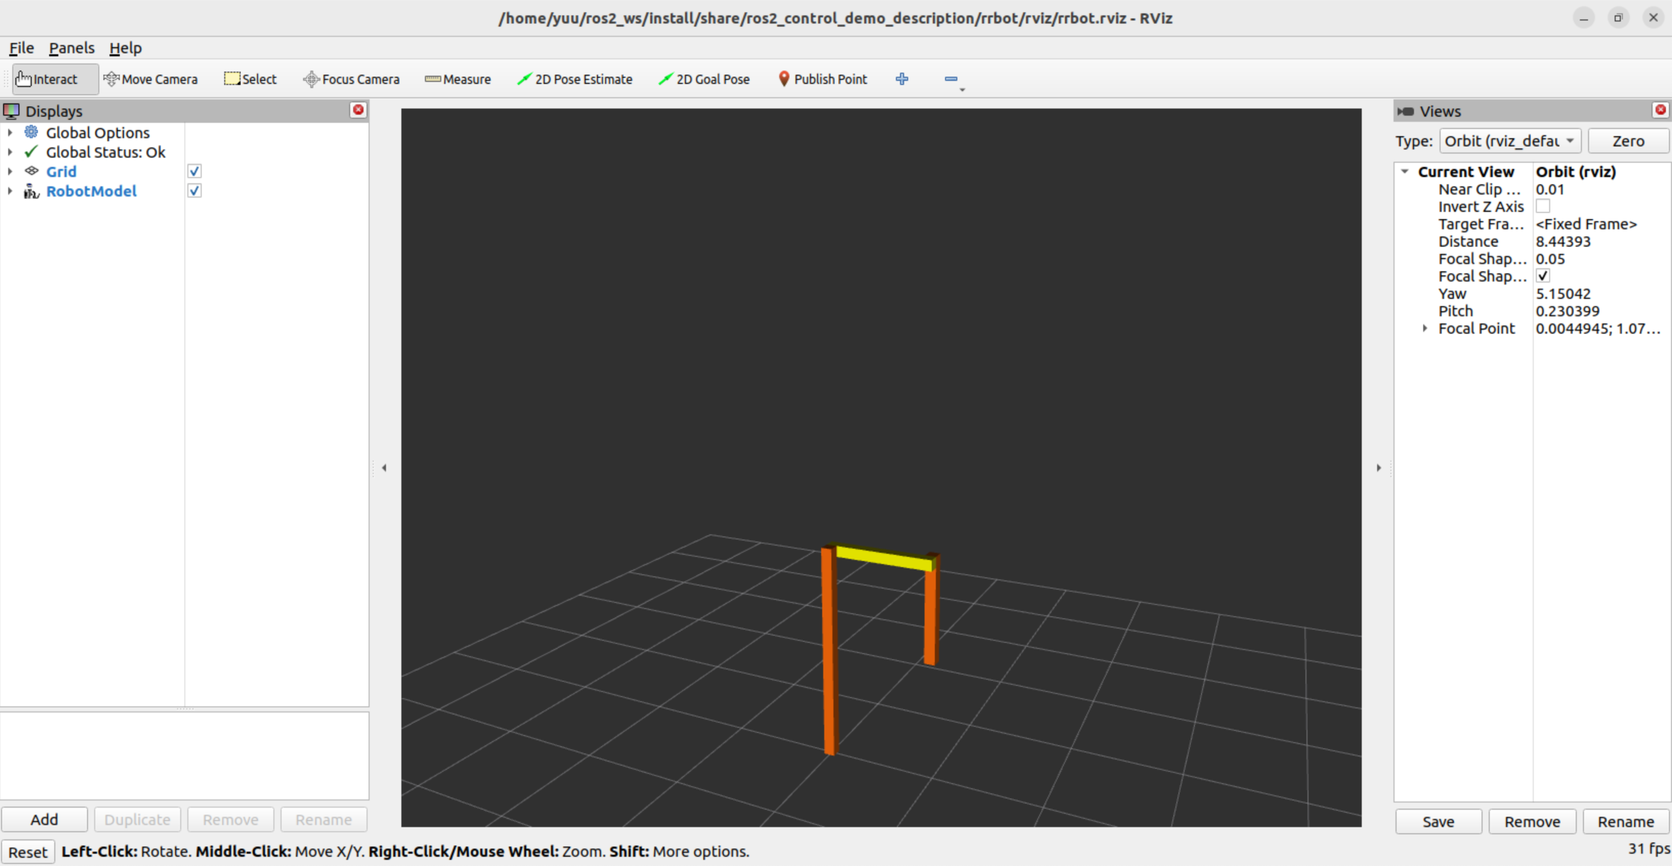
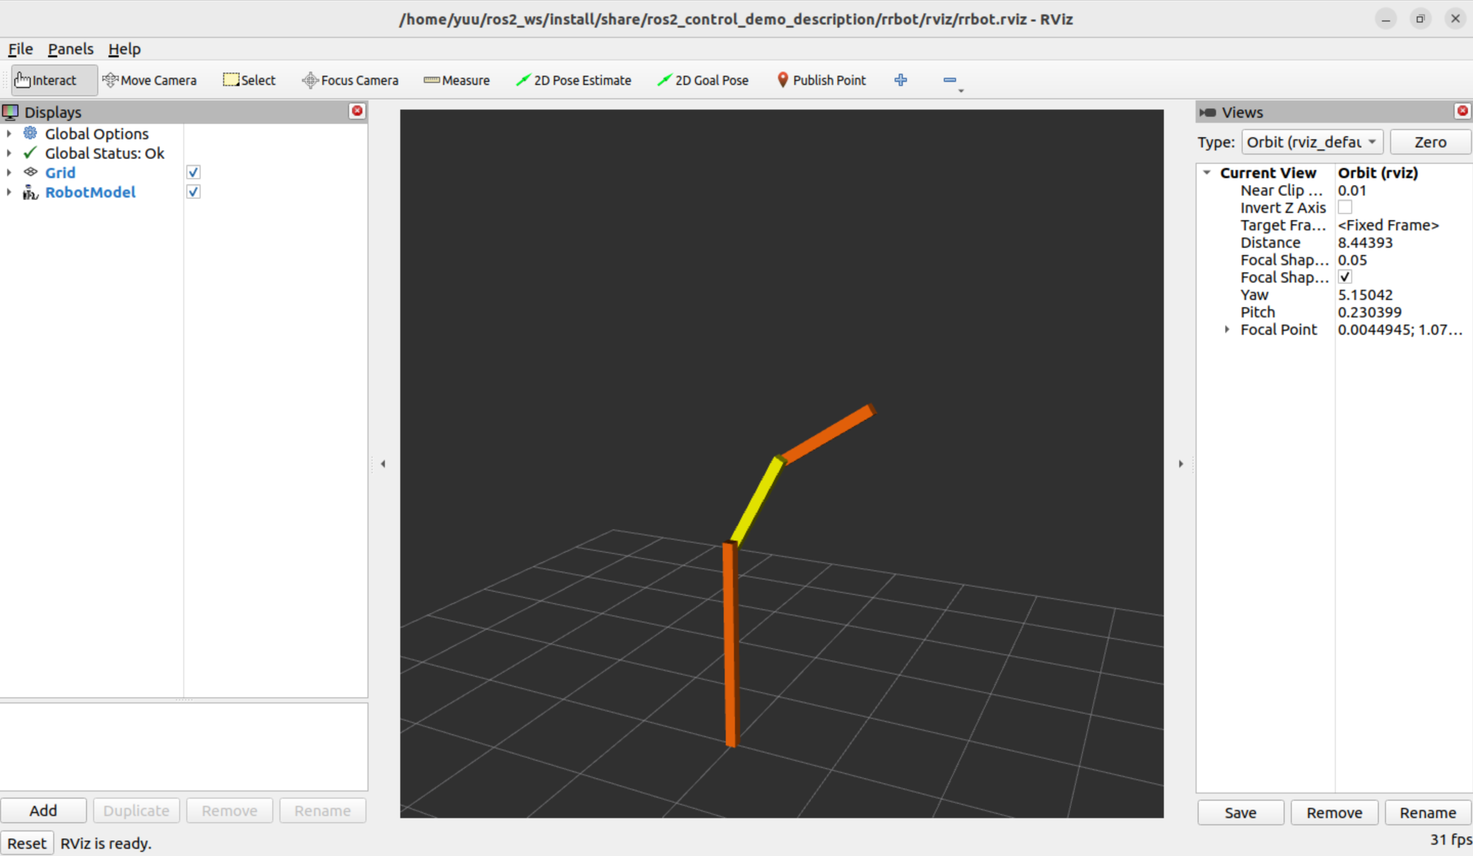
update

diff --git a/ps/z24e2hg/index.html b/ps/z24e2hg/index.html
@@ -30,7 +30,7 @@
 <meta itemprop="name" content="2軸アームロボットの制御">
 <meta itemprop="description" content="2軸アームロボットを制御します．">
 
-<meta itemprop="wordCount" content="340">
+<meta itemprop="wordCount" content="379">
 <meta itemprop="keywords" content="RRBot,運動制御,トピック通信," /><meta name="twitter:card" content="summary"/>
 <meta name="twitter:title" content="2軸アームロボットの制御"/>
 <meta name="twitter:description" content="2軸アームロボットを制御します．"/>
@@ -141,6 +141,7 @@ if (!doNotTrack) {
     <li><a href="#rrbotの起動">rrbotの起動</a></li>
     <li><a href="#トピックの確認">トピックの確認</a></li>
     <li><a href="#プログラム">プログラム</a></li>
+    <li><a href="#課題">課題</a></li>
   </ul>
 </nav>
       </div>
@@ -215,16 +216,22 @@ if (!doNotTrack) {
 パッケージをgithubのリポジトリからクローンし，依存するパッケージをインストールします．</p>
 <div class="highlight"><div style="background-color:#f8f8f8;-moz-tab-size:4;-o-tab-size:4;tab-size:4;display:grid;">
 <table style="border-spacing:0;padding:0;margin:0;border:0;"><tr><td style="vertical-align:top;padding:0;margin:0;border:0;">
-<pre tabindex="0" style="background-color:#f8f8f8;-moz-tab-size:4;-o-tab-size:4;tab-size:4;display:grid;"><code><span style="white-space:pre;-webkit-user-select:none;user-select:none;margin-right:0.4em;padding:0 0.4em 0 0.4em;color:#7f7f7f">1
-</span><span style="white-space:pre;-webkit-user-select:none;user-select:none;margin-right:0.4em;padding:0 0.4em 0 0.4em;color:#7f7f7f">2
-</span><span style="white-space:pre;-webkit-user-select:none;user-select:none;margin-right:0.4em;padding:0 0.4em 0 0.4em;color:#7f7f7f">3
-</span><span style="white-space:pre;-webkit-user-select:none;user-select:none;margin-right:0.4em;padding:0 0.4em 0 0.4em;color:#7f7f7f">4
-</span><span style="white-space:pre;-webkit-user-select:none;user-select:none;margin-right:0.4em;padding:0 0.4em 0 0.4em;color:#7f7f7f">5
-</span><span style="white-space:pre;-webkit-user-select:none;user-select:none;margin-right:0.4em;padding:0 0.4em 0 0.4em;color:#7f7f7f">6
-</span><span style="white-space:pre;-webkit-user-select:none;user-select:none;margin-right:0.4em;padding:0 0.4em 0 0.4em;color:#7f7f7f">7
+<pre tabindex="0" style="background-color:#f8f8f8;-moz-tab-size:4;-o-tab-size:4;tab-size:4;display:grid;"><code><span style="white-space:pre;-webkit-user-select:none;user-select:none;margin-right:0.4em;padding:0 0.4em 0 0.4em;color:#7f7f7f"> 1
+</span><span style="white-space:pre;-webkit-user-select:none;user-select:none;margin-right:0.4em;padding:0 0.4em 0 0.4em;color:#7f7f7f"> 2
+</span><span style="white-space:pre;-webkit-user-select:none;user-select:none;margin-right:0.4em;padding:0 0.4em 0 0.4em;color:#7f7f7f"> 3
+</span><span style="white-space:pre;-webkit-user-select:none;user-select:none;margin-right:0.4em;padding:0 0.4em 0 0.4em;color:#7f7f7f"> 4
+</span><span style="white-space:pre;-webkit-user-select:none;user-select:none;margin-right:0.4em;padding:0 0.4em 0 0.4em;color:#7f7f7f"> 5
+</span><span style="white-space:pre;-webkit-user-select:none;user-select:none;margin-right:0.4em;padding:0 0.4em 0 0.4em;color:#7f7f7f"> 6
+</span><span style="white-space:pre;-webkit-user-select:none;user-select:none;margin-right:0.4em;padding:0 0.4em 0 0.4em;color:#7f7f7f"> 7
+</span><span style="white-space:pre;-webkit-user-select:none;user-select:none;margin-right:0.4em;padding:0 0.4em 0 0.4em;color:#7f7f7f"> 8
+</span><span style="white-space:pre;-webkit-user-select:none;user-select:none;margin-right:0.4em;padding:0 0.4em 0 0.4em;color:#7f7f7f"> 9
+</span><span style="white-space:pre;-webkit-user-select:none;user-select:none;margin-right:0.4em;padding:0 0.4em 0 0.4em;color:#7f7f7f">10
 </span></code></pre></td>
 <td style="vertical-align:top;padding:0;margin:0;border:0;;width:100%">
-<pre tabindex="0" style="background-color:#f8f8f8;-moz-tab-size:4;-o-tab-size:4;tab-size:4;display:grid;"><code class="language-console" data-lang="console"><span style="display:flex;"><span><span style="color:#8f5902">$</span> mkdir -p ~/ros2_ws/src
+<pre tabindex="0" style="background-color:#f8f8f8;-moz-tab-size:4;-o-tab-size:4;tab-size:4;display:grid;"><code class="language-console" data-lang="console"><span style="display:flex;"><span><span style="color:#8f5902">$</span> sudo apt install python3-rosdep2
+</span></span><span style="display:flex;"><span><span style="color:#8f5902">$</span> sudo rosdep init
+</span></span><span style="display:flex;"><span><span style="color:#8f5902">$</span> sudo apt install ros-humble-controller-manager
+</span></span><span style="display:flex;"><span><span style="color:#8f5902">$</span> mkdir -p ~/ros2_ws/src
 </span></span><span style="display:flex;"><span><span style="color:#8f5902">$</span> <span style="color:#204a87">cd</span> ~/ros2_ws/src
 </span></span><span style="display:flex;"><span><span style="color:#8f5902">$</span> git clone https://github.com/ros-controls/ros2_control_demos -b humble
 </span></span><span style="display:flex;"><span><span style="color:#8f5902">$</span> <span style="color:#204a87">cd</span> ~/ros2_ws/
@@ -270,9 +277,11 @@ if (!doNotTrack) {
 </span></span><span style="display:flex;"><span><span style="color:#8f5902">$</span> ros2 launch ros2_control_demo_example_1 rrbot.launch.py
 </span></span></code></pre></td></tr></table>
 </div>
-</div><p>起動するとrviz2が立ち上がり，3リンク2ジョイントのロボットが表示されます．</p>
+</div><p>rviz2が立ち上がり，3リンク2ジョイントのロボットが表示されます．
+また，ロボットを動かすためのコントローラーも起動します．</p>
 <p><img src="rrbot1.png#center" alt="rrbot1"></p>
 <h2 id="トピックの確認">トピックの確認</h2>
+<p>どのようなトピックがアクティブであるかを確認します．</p>
 <div class="highlight"><div style="background-color:#f8f8f8;-moz-tab-size:4;-o-tab-size:4;tab-size:4;display:grid;">
 <table style="border-spacing:0;padding:0;margin:0;border:0;"><tr><td style="vertical-align:top;padding:0;margin:0;border:0;">
 <pre tabindex="0" style="background-color:#f8f8f8;-moz-tab-size:4;-o-tab-size:4;tab-size:4;display:grid;"><code><span style="white-space:pre;-webkit-user-select:none;user-select:none;margin-right:0.4em;padding:0 0.4em 0 0.4em;color:#7f7f7f"> 1
@@ -307,7 +316,9 @@ if (!doNotTrack) {
 </span></span></span><span style="display:flex;"><span><span style="color:#000;font-style:italic">/tf_static
 </span></span></span></code></pre></td></tr></table>
 </div>
-</div><div class="highlight"><div style="background-color:#f8f8f8;-moz-tab-size:4;-o-tab-size:4;tab-size:4;display:grid;">
+</div><p>たくさんのトピックが配信/購読されていますが，コントローラが購読するトピックは<code>/forward_position_controller/commands</code>です．
+下記のコマンドで使用するメッセージ型を調べましょう．</p>
+<div class="highlight"><div style="background-color:#f8f8f8;-moz-tab-size:4;-o-tab-size:4;tab-size:4;display:grid;">
 <table style="border-spacing:0;padding:0;margin:0;border:0;"><tr><td style="vertical-align:top;padding:0;margin:0;border:0;">
 <pre tabindex="0" style="background-color:#f8f8f8;-moz-tab-size:4;-o-tab-size:4;tab-size:4;display:grid;"><code><span style="white-space:pre;-webkit-user-select:none;user-select:none;margin-right:0.4em;padding:0 0.4em 0 0.4em;color:#7f7f7f">1
 </span><span style="white-space:pre;-webkit-user-select:none;user-select:none;margin-right:0.4em;padding:0 0.4em 0 0.4em;color:#7f7f7f">2
@@ -321,7 +332,9 @@ if (!doNotTrack) {
 </span></span></span><span style="display:flex;"><span><span style="color:#000;font-style:italic">Subscription count: 1
 </span></span></span></code></pre></td></tr></table>
 </div>
-</div><div class="highlight"><div style="background-color:#f8f8f8;-moz-tab-size:4;-o-tab-size:4;tab-size:4;display:grid;">
+</div><p><code>std_msgs/msg/Float64MultiArray</code>であることがわかりました．
+実際にどのようなデータを扱っているかを調べます．</p>
+<div class="highlight"><div style="background-color:#f8f8f8;-moz-tab-size:4;-o-tab-size:4;tab-size:4;display:grid;">
 <table style="border-spacing:0;padding:0;margin:0;border:0;"><tr><td style="vertical-align:top;padding:0;margin:0;border:0;">
 <pre tabindex="0" style="background-color:#f8f8f8;-moz-tab-size:4;-o-tab-size:4;tab-size:4;display:grid;"><code><span style="white-space:pre;-webkit-user-select:none;user-select:none;margin-right:0.4em;padding:0 0.4em 0 0.4em;color:#7f7f7f"> 1
 </span><span style="white-space:pre;-webkit-user-select:none;user-select:none;margin-right:0.4em;padding:0 0.4em 0 0.4em;color:#7f7f7f"> 2
@@ -363,7 +376,11 @@ if (!doNotTrack) {
 </span></span></span><span style="display:flex;"><span><span style="color:#000;font-style:italic">float64[]         data          # array of data
 </span></span></span></code></pre></td></tr></table>
 </div>
-</div><div class="highlight"><div style="background-color:#f8f8f8;-moz-tab-size:4;-o-tab-size:4;tab-size:4;display:grid;">
+</div><p><code>float64</code>のリストとして表現されるdataを受け渡していることがわかります．
+<code>std_msgs/msg/Float64MultiArray</code>は汎用的なメッセージの型であるため，リストの大きさが定義されていませんが，
+rrbotの場合にはリストの要素のサイズは2となり，それぞれの値はラジアンで表現される各ジョイントの変位(角度)を表します．</p>
+<p><code>pub</code>コマンドで関節角度を配信し，ロボットが制御できるかを確認しましょう．</p>
+<div class="highlight"><div style="background-color:#f8f8f8;-moz-tab-size:4;-o-tab-size:4;tab-size:4;display:grid;">
 <table style="border-spacing:0;padding:0;margin:0;border:0;"><tr><td style="vertical-align:top;padding:0;margin:0;border:0;">
 <pre tabindex="0" style="background-color:#f8f8f8;-moz-tab-size:4;-o-tab-size:4;tab-size:4;display:grid;"><code><span style="white-space:pre;-webkit-user-select:none;user-select:none;margin-right:0.4em;padding:0 0.4em 0 0.4em;color:#7f7f7f">1
 </span><span style="white-space:pre;-webkit-user-select:none;user-select:none;margin-right:0.4em;padding:0 0.4em 0 0.4em;color:#7f7f7f">2
@@ -375,7 +392,12 @@ if (!doNotTrack) {
 </span></span></span><span style="display:flex;"><span><span style="color:#000;font-style:italic">- 0.5&#34;
 </span></span></span></code></pre></td></tr></table>
 </div>
-</div><h2 id="プログラム">プログラム</h2>
+</div><p>2つのジョイントの関節角度をそれぞれ0.5としてトピックを配信します．
+トピックを配信後，ロボットがゆっくりと動作を開始し，下記のような姿勢になります．
+<img src="rrbot2.png#center" alt="rrbot2"></p>
+<h2 id="プログラム">プログラム</h2>
+<p>先ほどは<code>pub</code>コマンドでトピックを配信しましたが，プログラムで配信します．
+<a href="./../..//ps/tbaet4s/">トピック通信の実装</a>にて使用したサンプルプログラムをベースとしたプログラムになっています．</p>
 <div class="highlight"><div style="background-color:#f8f8f8;-moz-tab-size:4;-o-tab-size:4;tab-size:4;display:grid;">
 <table style="border-spacing:0;padding:0;margin:0;border:0;"><tr><td style="vertical-align:top;padding:0;margin:0;border:0;">
 <pre tabindex="0" style="background-color:#f8f8f8;-moz-tab-size:4;-o-tab-size:4;tab-size:4;display:grid;"><code><span style="white-space:pre;-webkit-user-select:none;user-select:none;margin-right:0.4em;padding:0 0.4em 0 0.4em;color:#7f7f7f"> 1
@@ -438,7 +460,15 @@ if (!doNotTrack) {
 </span></span><span style="display:flex;"><span>    <span style="color:#000">main</span><span style="color:#000;font-weight:bold">()</span>
 </span></span></code></pre></td></tr></table>
 </div>
-</div><p><img src="rrbot2.png#center" alt="rrbot2"></p>
+</div><p>サンプルプログラムでは，2つの関節角度を<code>math.pi * 0.5</code>，度数法で表すと90度としてトピックを配信しています．
+サンプルプログラムを実行すると下記のような結果が得られます．</p>
+<p><img src="rrbot3.png#center" alt="rrbot3"></p>
+<h2 id="課題">課題</h2>
+<ol>
+<li>サンプルプログラムにおける関節角度の値を変えてプログラムを実行しなさい．</li>
+<li>順運動学により手先位置を計算し，ターミナルに出力しなさい．</li>
+<li>手先位置を与え，逆運動学により関節角度を計算してターミナルに出力しなさい．</li>
+</ol>
 
 	
 </div>

diff --git a/ros/_print/index.html b/ros/_print/index.html
@@ -3172,16 +3172,22 @@ ROS内部のシステム上の時間は，<code>self.get_clock().now().to_msg()<
 パッケージをgithubのリポジトリからクローンし，依存するパッケージをインストールします．</p>
 <div class="highlight"><div style="background-color:#f8f8f8;-moz-tab-size:4;-o-tab-size:4;tab-size:4;display:grid;">
 <table style="border-spacing:0;padding:0;margin:0;border:0;"><tr><td style="vertical-align:top;padding:0;margin:0;border:0;">
-<pre tabindex="0" style="background-color:#f8f8f8;-moz-tab-size:4;-o-tab-size:4;tab-size:4;display:grid;"><code><span style="white-space:pre;-webkit-user-select:none;user-select:none;margin-right:0.4em;padding:0 0.4em 0 0.4em;color:#7f7f7f">1
-</span><span style="white-space:pre;-webkit-user-select:none;user-select:none;margin-right:0.4em;padding:0 0.4em 0 0.4em;color:#7f7f7f">2
-</span><span style="white-space:pre;-webkit-user-select:none;user-select:none;margin-right:0.4em;padding:0 0.4em 0 0.4em;color:#7f7f7f">3
-</span><span style="white-space:pre;-webkit-user-select:none;user-select:none;margin-right:0.4em;padding:0 0.4em 0 0.4em;color:#7f7f7f">4
-</span><span style="white-space:pre;-webkit-user-select:none;user-select:none;margin-right:0.4em;padding:0 0.4em 0 0.4em;color:#7f7f7f">5
-</span><span style="white-space:pre;-webkit-user-select:none;user-select:none;margin-right:0.4em;padding:0 0.4em 0 0.4em;color:#7f7f7f">6
-</span><span style="white-space:pre;-webkit-user-select:none;user-select:none;margin-right:0.4em;padding:0 0.4em 0 0.4em;color:#7f7f7f">7
+<pre tabindex="0" style="background-color:#f8f8f8;-moz-tab-size:4;-o-tab-size:4;tab-size:4;display:grid;"><code><span style="white-space:pre;-webkit-user-select:none;user-select:none;margin-right:0.4em;padding:0 0.4em 0 0.4em;color:#7f7f7f"> 1
+</span><span style="white-space:pre;-webkit-user-select:none;user-select:none;margin-right:0.4em;padding:0 0.4em 0 0.4em;color:#7f7f7f"> 2
+</span><span style="white-space:pre;-webkit-user-select:none;user-select:none;margin-right:0.4em;padding:0 0.4em 0 0.4em;color:#7f7f7f"> 3
+</span><span style="white-space:pre;-webkit-user-select:none;user-select:none;margin-right:0.4em;padding:0 0.4em 0 0.4em;color:#7f7f7f"> 4
+</span><span style="white-space:pre;-webkit-user-select:none;user-select:none;margin-right:0.4em;padding:0 0.4em 0 0.4em;color:#7f7f7f"> 5
+</span><span style="white-space:pre;-webkit-user-select:none;user-select:none;margin-right:0.4em;padding:0 0.4em 0 0.4em;color:#7f7f7f"> 6
+</span><span style="white-space:pre;-webkit-user-select:none;user-select:none;margin-right:0.4em;padding:0 0.4em 0 0.4em;color:#7f7f7f"> 7
+</span><span style="white-space:pre;-webkit-user-select:none;user-select:none;margin-right:0.4em;padding:0 0.4em 0 0.4em;color:#7f7f7f"> 8
+</span><span style="white-space:pre;-webkit-user-select:none;user-select:none;margin-right:0.4em;padding:0 0.4em 0 0.4em;color:#7f7f7f"> 9
+</span><span style="white-space:pre;-webkit-user-select:none;user-select:none;margin-right:0.4em;padding:0 0.4em 0 0.4em;color:#7f7f7f">10
 </span></code></pre></td>
 <td style="vertical-align:top;padding:0;margin:0;border:0;;width:100%">
-<pre tabindex="0" style="background-color:#f8f8f8;-moz-tab-size:4;-o-tab-size:4;tab-size:4;display:grid;"><code class="language-console" data-lang="console"><span style="display:flex;"><span><span style="color:#8f5902">$</span> mkdir -p ~/ros2_ws/src
+<pre tabindex="0" style="background-color:#f8f8f8;-moz-tab-size:4;-o-tab-size:4;tab-size:4;display:grid;"><code class="language-console" data-lang="console"><span style="display:flex;"><span><span style="color:#8f5902">$</span> sudo apt install python3-rosdep2
+</span></span><span style="display:flex;"><span><span style="color:#8f5902">$</span> sudo rosdep init
+</span></span><span style="display:flex;"><span><span style="color:#8f5902">$</span> sudo apt install ros-humble-controller-manager
+</span></span><span style="display:flex;"><span><span style="color:#8f5902">$</span> mkdir -p ~/ros2_ws/src
 </span></span><span style="display:flex;"><span><span style="color:#8f5902">$</span> <span style="color:#204a87">cd</span> ~/ros2_ws/src
 </span></span><span style="display:flex;"><span><span style="color:#8f5902">$</span> git clone https://github.com/ros-controls/ros2_control_demos -b humble
 </span></span><span style="display:flex;"><span><span style="color:#8f5902">$</span> <span style="color:#204a87">cd</span> ~/ros2_ws/
@@ -3227,9 +3233,11 @@ ROS内部のシステム上の時間は，<code>self.get_clock().now().to_msg()<
 </span></span><span style="display:flex;"><span><span style="color:#8f5902">$</span> ros2 launch ros2_control_demo_example_1 rrbot.launch.py
 </span></span></code></pre></td></tr></table>
 </div>
-</div><p>起動するとrviz2が立ち上がり，3リンク2ジョイントのロボットが表示されます．</p>
+</div><p>rviz2が立ち上がり，3リンク2ジョイントのロボットが表示されます．
+また，ロボットを動かすためのコントローラーも起動します．</p>
 <p><img src="rrbot1.png#center" alt="rrbot1"></p>
 <h2 id="トピックの確認">トピックの確認</h2>
+<p>どのようなトピックがアクティブであるかを確認します．</p>
 <div class="highlight"><div style="background-color:#f8f8f8;-moz-tab-size:4;-o-tab-size:4;tab-size:4;display:grid;">
 <table style="border-spacing:0;padding:0;margin:0;border:0;"><tr><td style="vertical-align:top;padding:0;margin:0;border:0;">
 <pre tabindex="0" style="background-color:#f8f8f8;-moz-tab-size:4;-o-tab-size:4;tab-size:4;display:grid;"><code><span style="white-space:pre;-webkit-user-select:none;user-select:none;margin-right:0.4em;padding:0 0.4em 0 0.4em;color:#7f7f7f"> 1
@@ -3264,7 +3272,9 @@ ROS内部のシステム上の時間は，<code>self.get_clock().now().to_msg()<
 </span></span></span><span style="display:flex;"><span><span style="color:#000;font-style:italic">/tf_static
 </span></span></span></code></pre></td></tr></table>
 </div>
-</div><div class="highlight"><div style="background-color:#f8f8f8;-moz-tab-size:4;-o-tab-size:4;tab-size:4;display:grid;">
+</div><p>たくさんのトピックが配信/購読されていますが，コントローラが購読するトピックは<code>/forward_position_controller/commands</code>です．
+下記のコマンドで使用するメッセージ型を調べましょう．</p>
+<div class="highlight"><div style="background-color:#f8f8f8;-moz-tab-size:4;-o-tab-size:4;tab-size:4;display:grid;">
 <table style="border-spacing:0;padding:0;margin:0;border:0;"><tr><td style="vertical-align:top;padding:0;margin:0;border:0;">
 <pre tabindex="0" style="background-color:#f8f8f8;-moz-tab-size:4;-o-tab-size:4;tab-size:4;display:grid;"><code><span style="white-space:pre;-webkit-user-select:none;user-select:none;margin-right:0.4em;padding:0 0.4em 0 0.4em;color:#7f7f7f">1
 </span><span style="white-space:pre;-webkit-user-select:none;user-select:none;margin-right:0.4em;padding:0 0.4em 0 0.4em;color:#7f7f7f">2
@@ -3278,7 +3288,9 @@ ROS内部のシステム上の時間は，<code>self.get_clock().now().to_msg()<
 </span></span></span><span style="display:flex;"><span><span style="color:#000;font-style:italic">Subscription count: 1
 </span></span></span></code></pre></td></tr></table>
 </div>
-</div><div class="highlight"><div style="background-color:#f8f8f8;-moz-tab-size:4;-o-tab-size:4;tab-size:4;display:grid;">
+</div><p><code>std_msgs/msg/Float64MultiArray</code>であることがわかりました．
+実際にどのようなデータを扱っているかを調べます．</p>
+<div class="highlight"><div style="background-color:#f8f8f8;-moz-tab-size:4;-o-tab-size:4;tab-size:4;display:grid;">
 <table style="border-spacing:0;padding:0;margin:0;border:0;"><tr><td style="vertical-align:top;padding:0;margin:0;border:0;">
 <pre tabindex="0" style="background-color:#f8f8f8;-moz-tab-size:4;-o-tab-size:4;tab-size:4;display:grid;"><code><span style="white-space:pre;-webkit-user-select:none;user-select:none;margin-right:0.4em;padding:0 0.4em 0 0.4em;color:#7f7f7f"> 1
 </span><span style="white-space:pre;-webkit-user-select:none;user-select:none;margin-right:0.4em;padding:0 0.4em 0 0.4em;color:#7f7f7f"> 2
@@ -3320,7 +3332,11 @@ ROS内部のシステム上の時間は，<code>self.get_clock().now().to_msg()<
 </span></span></span><span style="display:flex;"><span><span style="color:#000;font-style:italic">float64[]         data          # array of data
 </span></span></span></code></pre></td></tr></table>
 </div>
-</div><div class="highlight"><div style="background-color:#f8f8f8;-moz-tab-size:4;-o-tab-size:4;tab-size:4;display:grid;">
+</div><p><code>float64</code>のリストとして表現されるdataを受け渡していることがわかります．
+<code>std_msgs/msg/Float64MultiArray</code>は汎用的なメッセージの型であるため，リストの大きさが定義されていませんが，
+rrbotの場合にはリストの要素のサイズは2となり，それぞれの値はラジアンで表現される各ジョイントの変位(角度)を表します．</p>
+<p><code>pub</code>コマンドで関節角度を配信し，ロボットが制御できるかを確認しましょう．</p>
+<div class="highlight"><div style="background-color:#f8f8f8;-moz-tab-size:4;-o-tab-size:4;tab-size:4;display:grid;">
 <table style="border-spacing:0;padding:0;margin:0;border:0;"><tr><td style="vertical-align:top;padding:0;margin:0;border:0;">
 <pre tabindex="0" style="background-color:#f8f8f8;-moz-tab-size:4;-o-tab-size:4;tab-size:4;display:grid;"><code><span style="white-space:pre;-webkit-user-select:none;user-select:none;margin-right:0.4em;padding:0 0.4em 0 0.4em;color:#7f7f7f">1
 </span><span style="white-space:pre;-webkit-user-select:none;user-select:none;margin-right:0.4em;padding:0 0.4em 0 0.4em;color:#7f7f7f">2
@@ -3332,7 +3348,12 @@ ROS内部のシステム上の時間は，<code>self.get_clock().now().to_msg()<
 </span></span></span><span style="display:flex;"><span><span style="color:#000;font-style:italic">- 0.5&#34;
 </span></span></span></code></pre></td></tr></table>
 </div>
-</div><h2 id="プログラム">プログラム</h2>
+</div><p>2つのジョイントの関節角度をそれぞれ0.5としてトピックを配信します．
+トピックを配信後，ロボットがゆっくりと動作を開始し，下記のような姿勢になります．
+<img src="rrbot2.png#center" alt="rrbot2"></p>
+<h2 id="プログラム">プログラム</h2>
+<p>先ほどは<code>pub</code>コマンドでトピックを配信しましたが，プログラムで配信します．
+<a href="./../..//ps/tbaet4s/">トピック通信の実装</a>にて使用したサンプルプログラムをベースとしたプログラムになっています．</p>
 <div class="highlight"><div style="background-color:#f8f8f8;-moz-tab-size:4;-o-tab-size:4;tab-size:4;display:grid;">
 <table style="border-spacing:0;padding:0;margin:0;border:0;"><tr><td style="vertical-align:top;padding:0;margin:0;border:0;">
 <pre tabindex="0" style="background-color:#f8f8f8;-moz-tab-size:4;-o-tab-size:4;tab-size:4;display:grid;"><code><span style="white-space:pre;-webkit-user-select:none;user-select:none;margin-right:0.4em;padding:0 0.4em 0 0.4em;color:#7f7f7f"> 1
@@ -3395,7 +3416,15 @@ ROS内部のシステム上の時間は，<code>self.get_clock().now().to_msg()<
 </span></span><span style="display:flex;"><span>    <span style="color:#000">main</span><span style="color:#000;font-weight:bold">()</span>
 </span></span></code></pre></td></tr></table>
 </div>
-</div><p><img src="rrbot2.png#center" alt="rrbot2"></p>
+</div><p>サンプルプログラムでは，2つの関節角度を<code>math.pi * 0.5</code>，度数法で表すと90度としてトピックを配信しています．
+サンプルプログラムを実行すると下記のような結果が得られます．</p>
+<p><img src="rrbot3.png#center" alt="rrbot3"></p>
+<h2 id="課題">課題</h2>
+<ol>
+<li>サンプルプログラムにおける関節角度の値を変えてプログラムを実行しなさい．</li>
+<li>順運動学により手先位置を計算し，ターミナルに出力しなさい．</li>
+<li>手先位置を与え，逆運動学により関節角度を計算してターミナルに出力しなさい．</li>
+</ol>
 
 </div>
 
